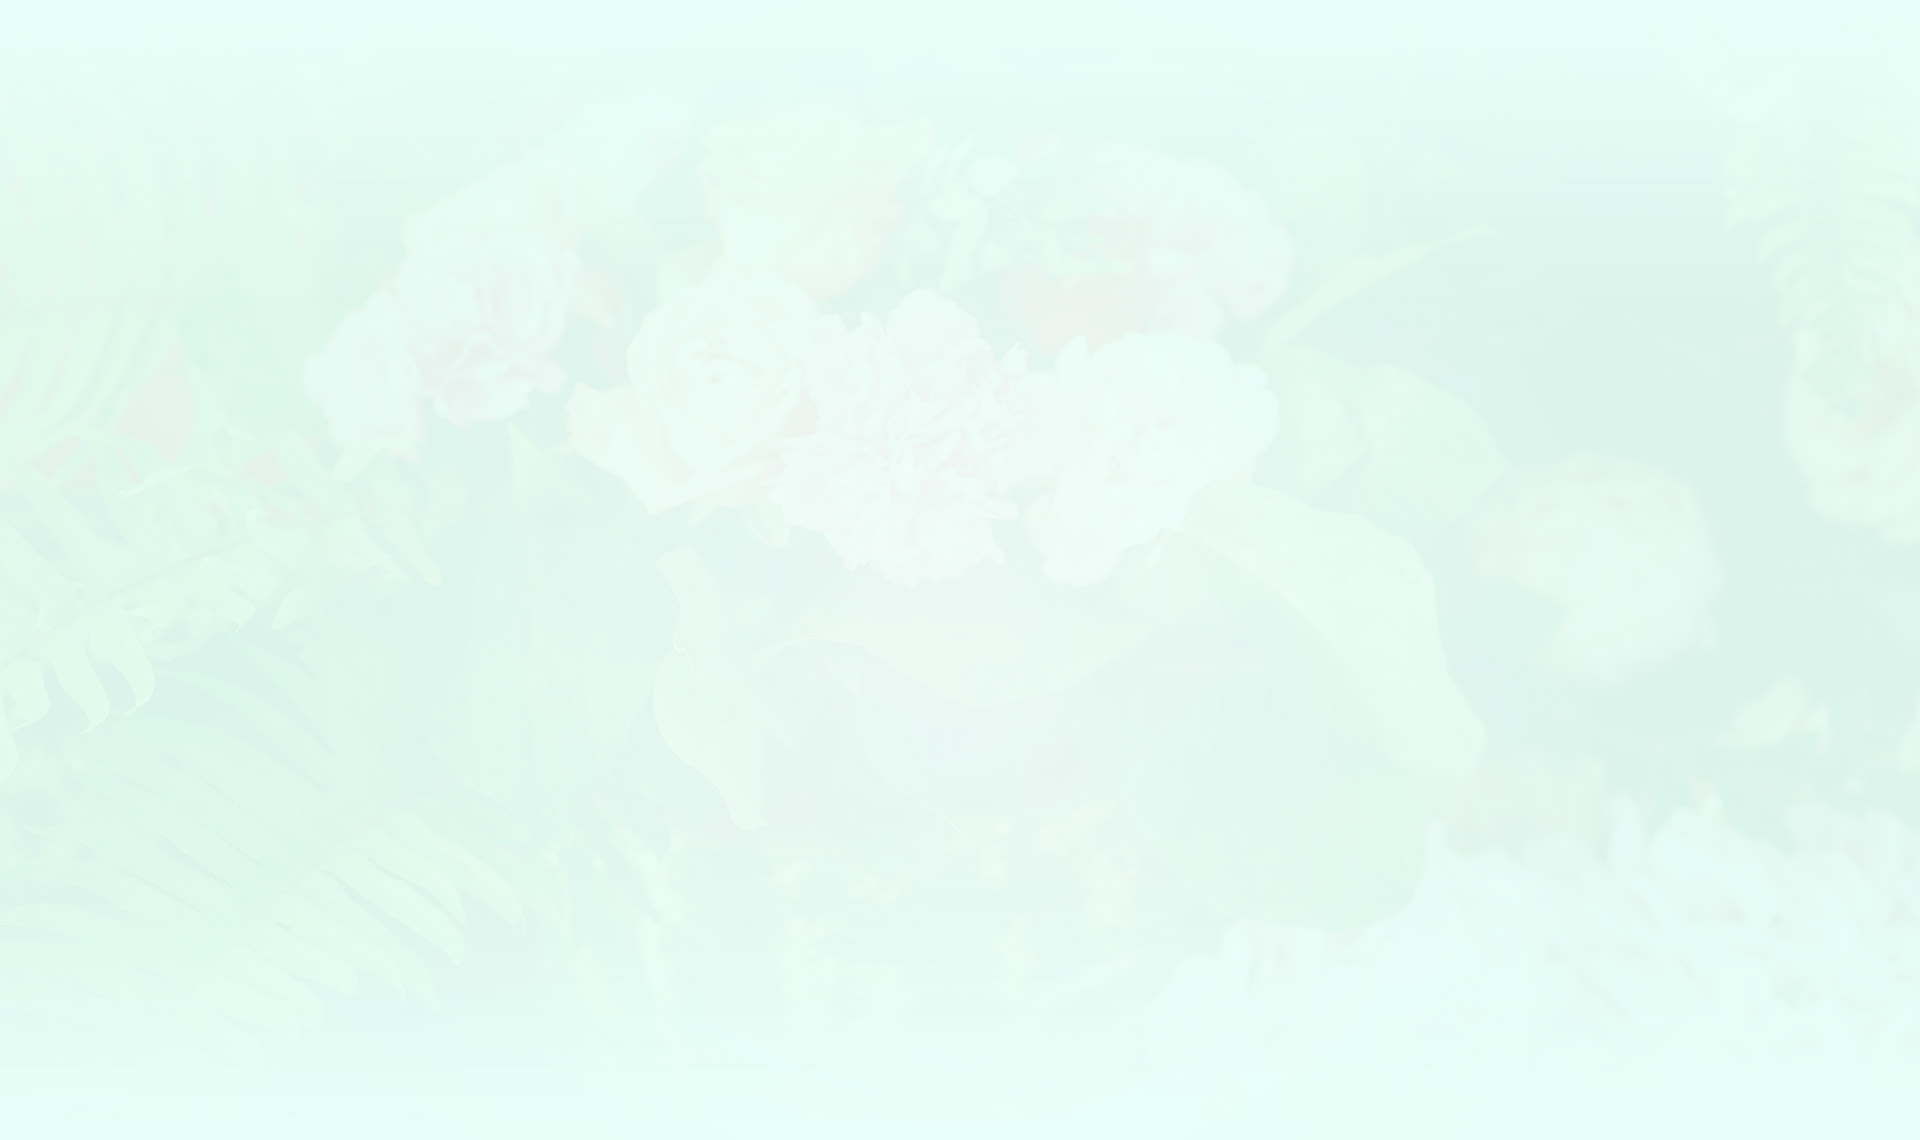
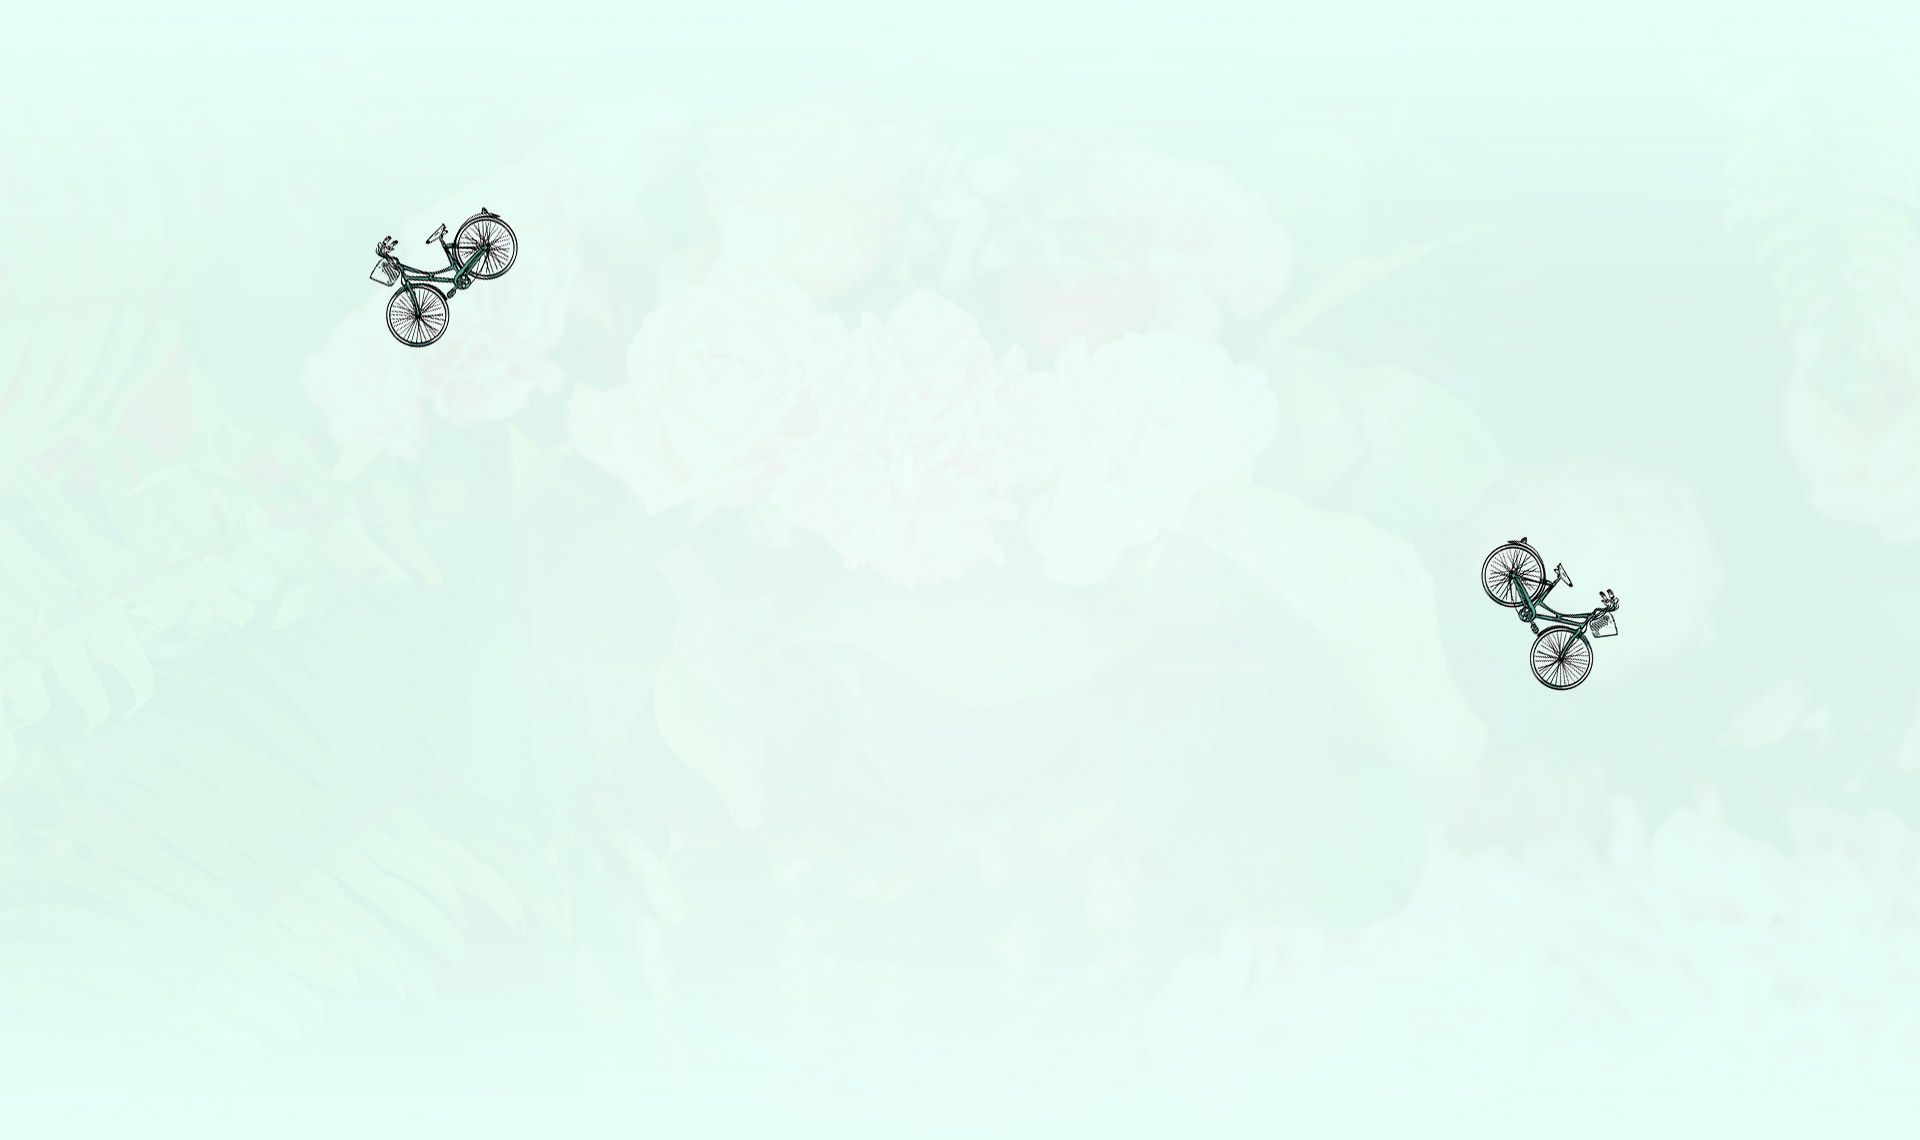
add section partner

Changed region(s): [[0.75, 0.4605, 0.8438, 0.614], [0.1875, 0.1842, 0.2812, 0.307]]

diff --git a/app/styles/main.sass b/app/styles/main.sass
@@ -172,9 +172,9 @@ button
   background-color: $main-color
   padding: 0 20px
   cursor: pointer
+
   &:hover
     background-color: #fff
-
 
 .button__text
   text-decoration: none
@@ -293,7 +293,6 @@ button
   color: #fff
   margin: 0 5px 40px
   padding-left: 180px
-
   &::before
     display: block
     content: ""
@@ -498,7 +497,7 @@ button
   padding: 0 30px
 
 .team
-  background: url(../img/section_team/team_backgorundBikes.jpg) center no-repeat
+  background: url(../img/section_team/team_background.jpg) center no-repeat
   background-size: cover
   position: relative
   &::before
@@ -518,6 +517,8 @@ button
     bottom: -19px
     background: url(../img/wave_green.png) 0 0 repeat-x
     transform: rotateX(180deg)
+    z-index: 1
+
 
 .team__inner
   padding: 50px 0
@@ -594,5 +595,91 @@ button
 
 .member__work
   line-height: 1.2
+
+.partner
+  background: url(../img/section_partner/partner_background.jpg) center no-repeat
+  background-size: cover
+  position: relative
+
+.partner__inner
+  padding: 61px 0 85px
+
+.photo__wrapper
+  display: flex
+  flex-wrap: wrap
+  justify-content: space-between
+  margin: 30px 5px 45px
+
+
+.partner__photo
+  width: 27%
+  height: 220px
+  background-repeat: no-repeat
+  background-size: cover
+
+.partner__photo_wide
+  width: 39%
+
+.features__wrapper
+  margin-bottom: 50px
+
+.partner__information
+  margin-bottom: 5px
+
+.partner-features__wrapper
+  display: flex
+  flex-wrap: wrap
+  counter-reset: partner__counter
+  box-sizing: border-box
+
+.partner-feature__line
+  margin-bottom: 30px
+  display: flex
+  justify-content: center
+
+
+.partner-feature
+  width: 41%
+  box-sizing: border-box
+  position: relative
+  margin-right: 35px
+  counter-reset: feature
+  counter-increment: partner__counter
+
+
+.partner-feature__line:nth-child(2n + 1) .partner-feature
+  margin-right: 70px
+
+.partner-feature__line:nth-child(2n)
+  margin-left: 35px
+    
+.partner-feature__line:nth-child(2n+1) .partner-feature:first-child,
+.partner-feature__line:nth-child(2n) .partner-feature:nth-child(2)
+  width: 25%
+
+.partner-feature__text
+  color: $main-color
+  position: relative
+  padding-left: 60px
+  &::before
+    display: block
+    content: counter(partner__counter)
+    width: 50px
+    height: 50px
+    position: absolute
+    left: 0
+    top: 12%
+    line-height: 50px
+    color: #fff
+    font-weight: 700
+    font-size: 30px
+    text-align: center
+    background-color: $main-color
+    border-radius: 50%
+
+.partner__text
+  font-size: 22px
+  color: $main-color
+  text-align: center
 
 @import "helpers/media"
